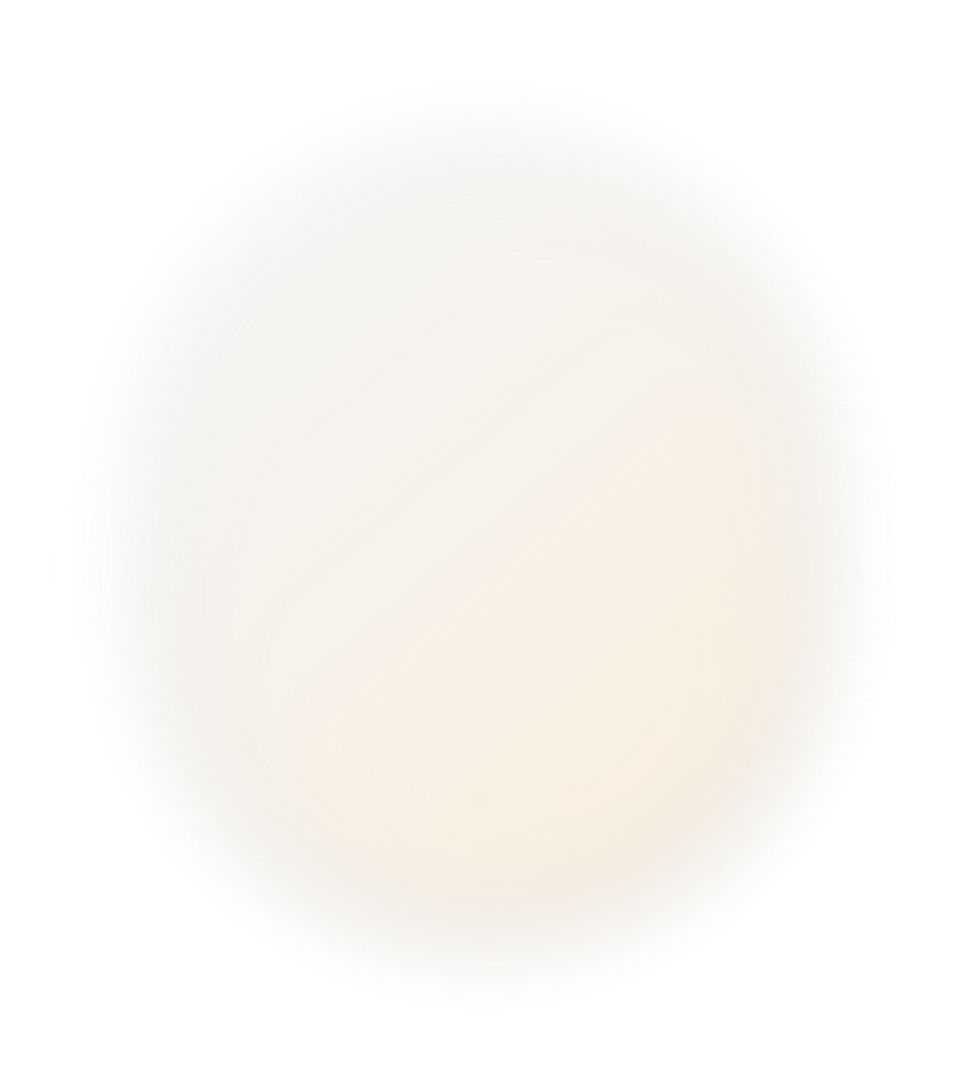
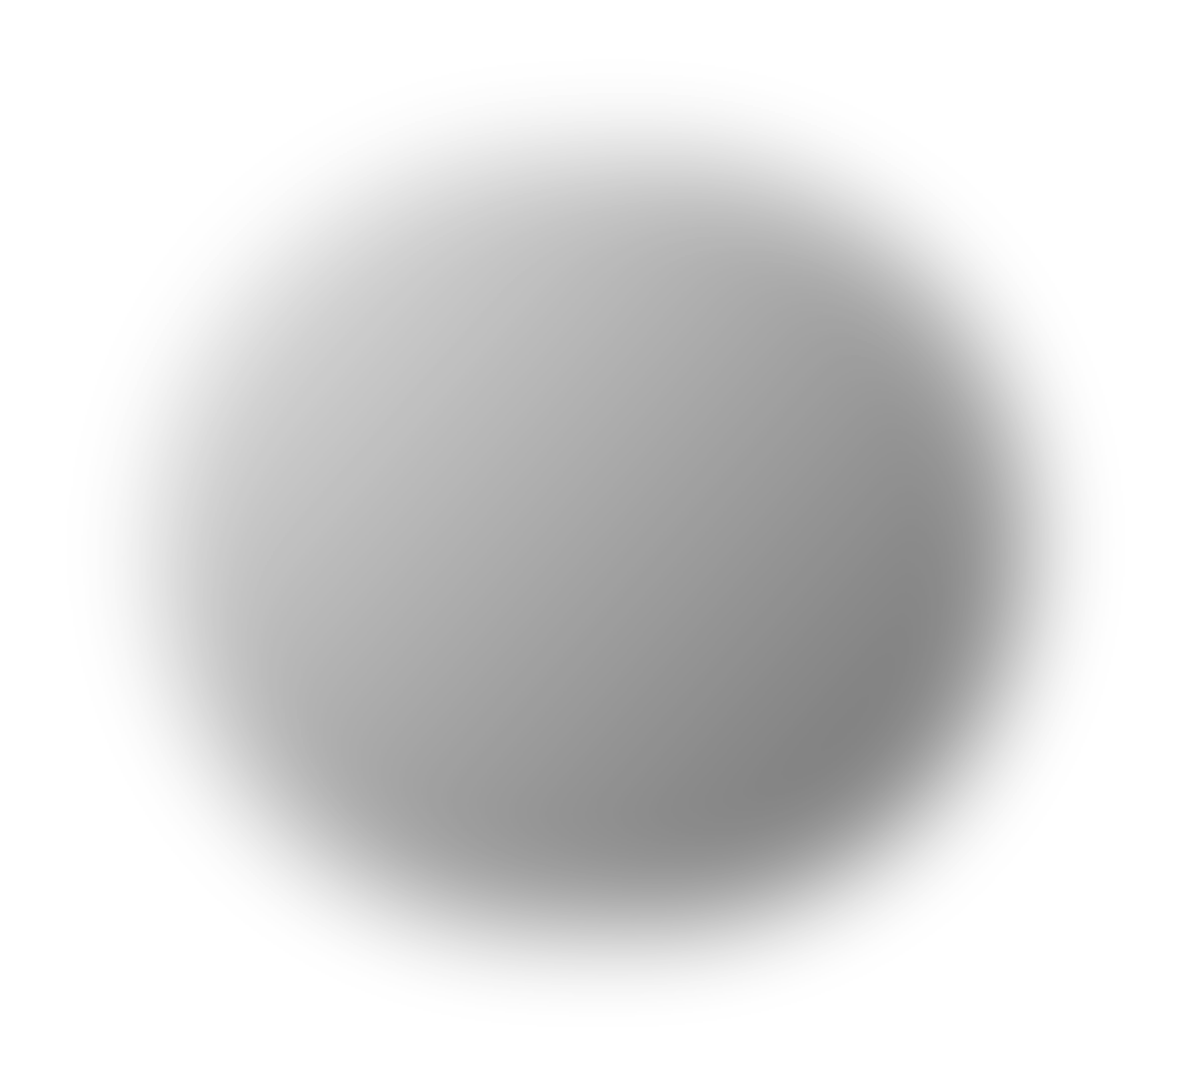
303

diff --git a/src/exhibitions/ex303HH/G303.js b/src/exhibitions/ex303HH/G303.js
@@ -22,14 +22,27 @@ import year1900 from './images/year1900.png';
 import year1945 from './images/year1945.png';
 import year1985 from './images/year1985.png';
 import year2019 from './images/year2019.png';
-import blur from './images/blur.png';
-import scale from './images/scale.png';
-import yearColor from './images/yearColor.png';
+import blurLeft1900 from './images/blurLeft.png';
+import blurLeft1945 from './images/blurLeft.png';
+import blurLeft1985 from './images/blurLeft.png';
+import blurLeft2019 from './images/blurLeft2019.png';
+import blurRight1900 from './images/blurRight.png';
+import blurRight1945 from './images/blurRight.png';
+import blurRight1985 from './images/blurRight.png';
+import blurRight2019 from './images/blurRight2019.png';
+import yearColor1900 from './images/yearColor.png';
+import yearColor1945 from './images/yearColor.png';
+import yearColor1985 from './images/yearColor.png';
+import yearColor2019 from './images/yearColor2019.png';
 import gsap from 'gsap';
 
 const mapArray = [map1900, map1900ed, map1945, map1945ed, map1985, map1985ed, map2019, map2019ed];
 const mapArrayPre = [map1900pre, map1945pre, map1985pre, map2019pre];
 const yearArray = [year1900, year1945, year1985, year2019];
+const blurLeft = [blurLeft1900, blurLeft1945, blurLeft1985, blurLeft2019];
+const blurRight = [blurRight1900, blurRight1945, blurRight1985, blurRight2019];
+const yearColor = [yearColor1900, yearColor1945, yearColor1985, yearColor2019];
+
 const G303 = props => {
   const [yearIdx, setYearIdx] = useState(null);
   const [selectedYear, setSelectedYear] = useState(false);
@@ -124,12 +137,12 @@ const G303 = props => {
         })}
       </div>
       <div id='leftInfo'>
+        <img alt='' className='blur' src={blurLeft[yearIdx]}></img>
         <img alt='' className='year' src={yearArray[yearIdx]}></img>
       </div>
       <div id='rightInfo'>
-        <img alt='' className='blur' src={blur}></img>
-        <img alt='' className='scale' src={scale}></img>
-        <img alt='' className='yearColor' src={yearColor}></img>
+        <img alt='' className='blur' src={blurRight[yearIdx]}></img>
+        <img alt='' className='yearColor' src={yearColor[yearIdx]}></img>
       </div>
       {selectedYear && (
         <Menu

diff --git a/src/exhibitions/ex303HH/style.scss b/src/exhibitions/ex303HH/style.scss
@@ -346,8 +346,14 @@ span {
   .year {
     width: auto;
     height: 189px;
-    top: 666px;
-    left: 137px;
+    top: 849px;
+    left: 50px;
+  }
+  .blur {
+    width: 647px;
+    height: 766px;
+    top: 831px;
+    left: -127px;
   }
 }
 
@@ -360,8 +366,8 @@ span {
   .blur {
     width: 647px;
     height: 766px;
-    top: 540px;
-    left: 1530px;
+    top: 475px;
+    left: 1475px;
   }
   .scale {
     width: 212.21px;
@@ -370,10 +376,10 @@ span {
     left: 1655px;
   }
   .yearColor {
-    width: 142px;
-    height: 258px;
-    top: 702px;
-    left: 1691px;
+    width: 212.21px;
+    height: 313px;
+    top: 707px;
+    left: 1611px;
   }
 }
 

diff --git a/src/exhibitions/ex303HH/menu.scss b/src/exhibitions/ex303HH/menu.scss
@@ -102,6 +102,7 @@ $width: 3840;
       background: $lightblue;
       display: flex;
       align-items: center;
+      text-align: center;
       position: absolute;
       // top: 50%;
       top: -50px;
@@ -132,7 +133,8 @@ $width: 3840;
         }
       }
       span {
-        width: vw-calc(227 - 18, $width);
+        // width: vw-calc(227 - 18, $width);
+        width: 50%;
         padding-left: vw-calc(18, $width);
         text-align: center;
         position: absolute;

diff --git a/src/globals/routes.js b/src/globals/routes.js
@@ -6,8 +6,9 @@ const routes = {
   ex302: '/ex302',
   ex302A: '/ex302A',
   ex303HKI: '/ex303HKI',
+  ex303HH: '/ex303HH',
   ex303KC: '/ex303KC',
-  ex303WK: '/ex303WK',
+  //ex303WK: '/ex303WK',
   ex303YT: '/ex303YT',
   ex402: '/ex402'
 };
